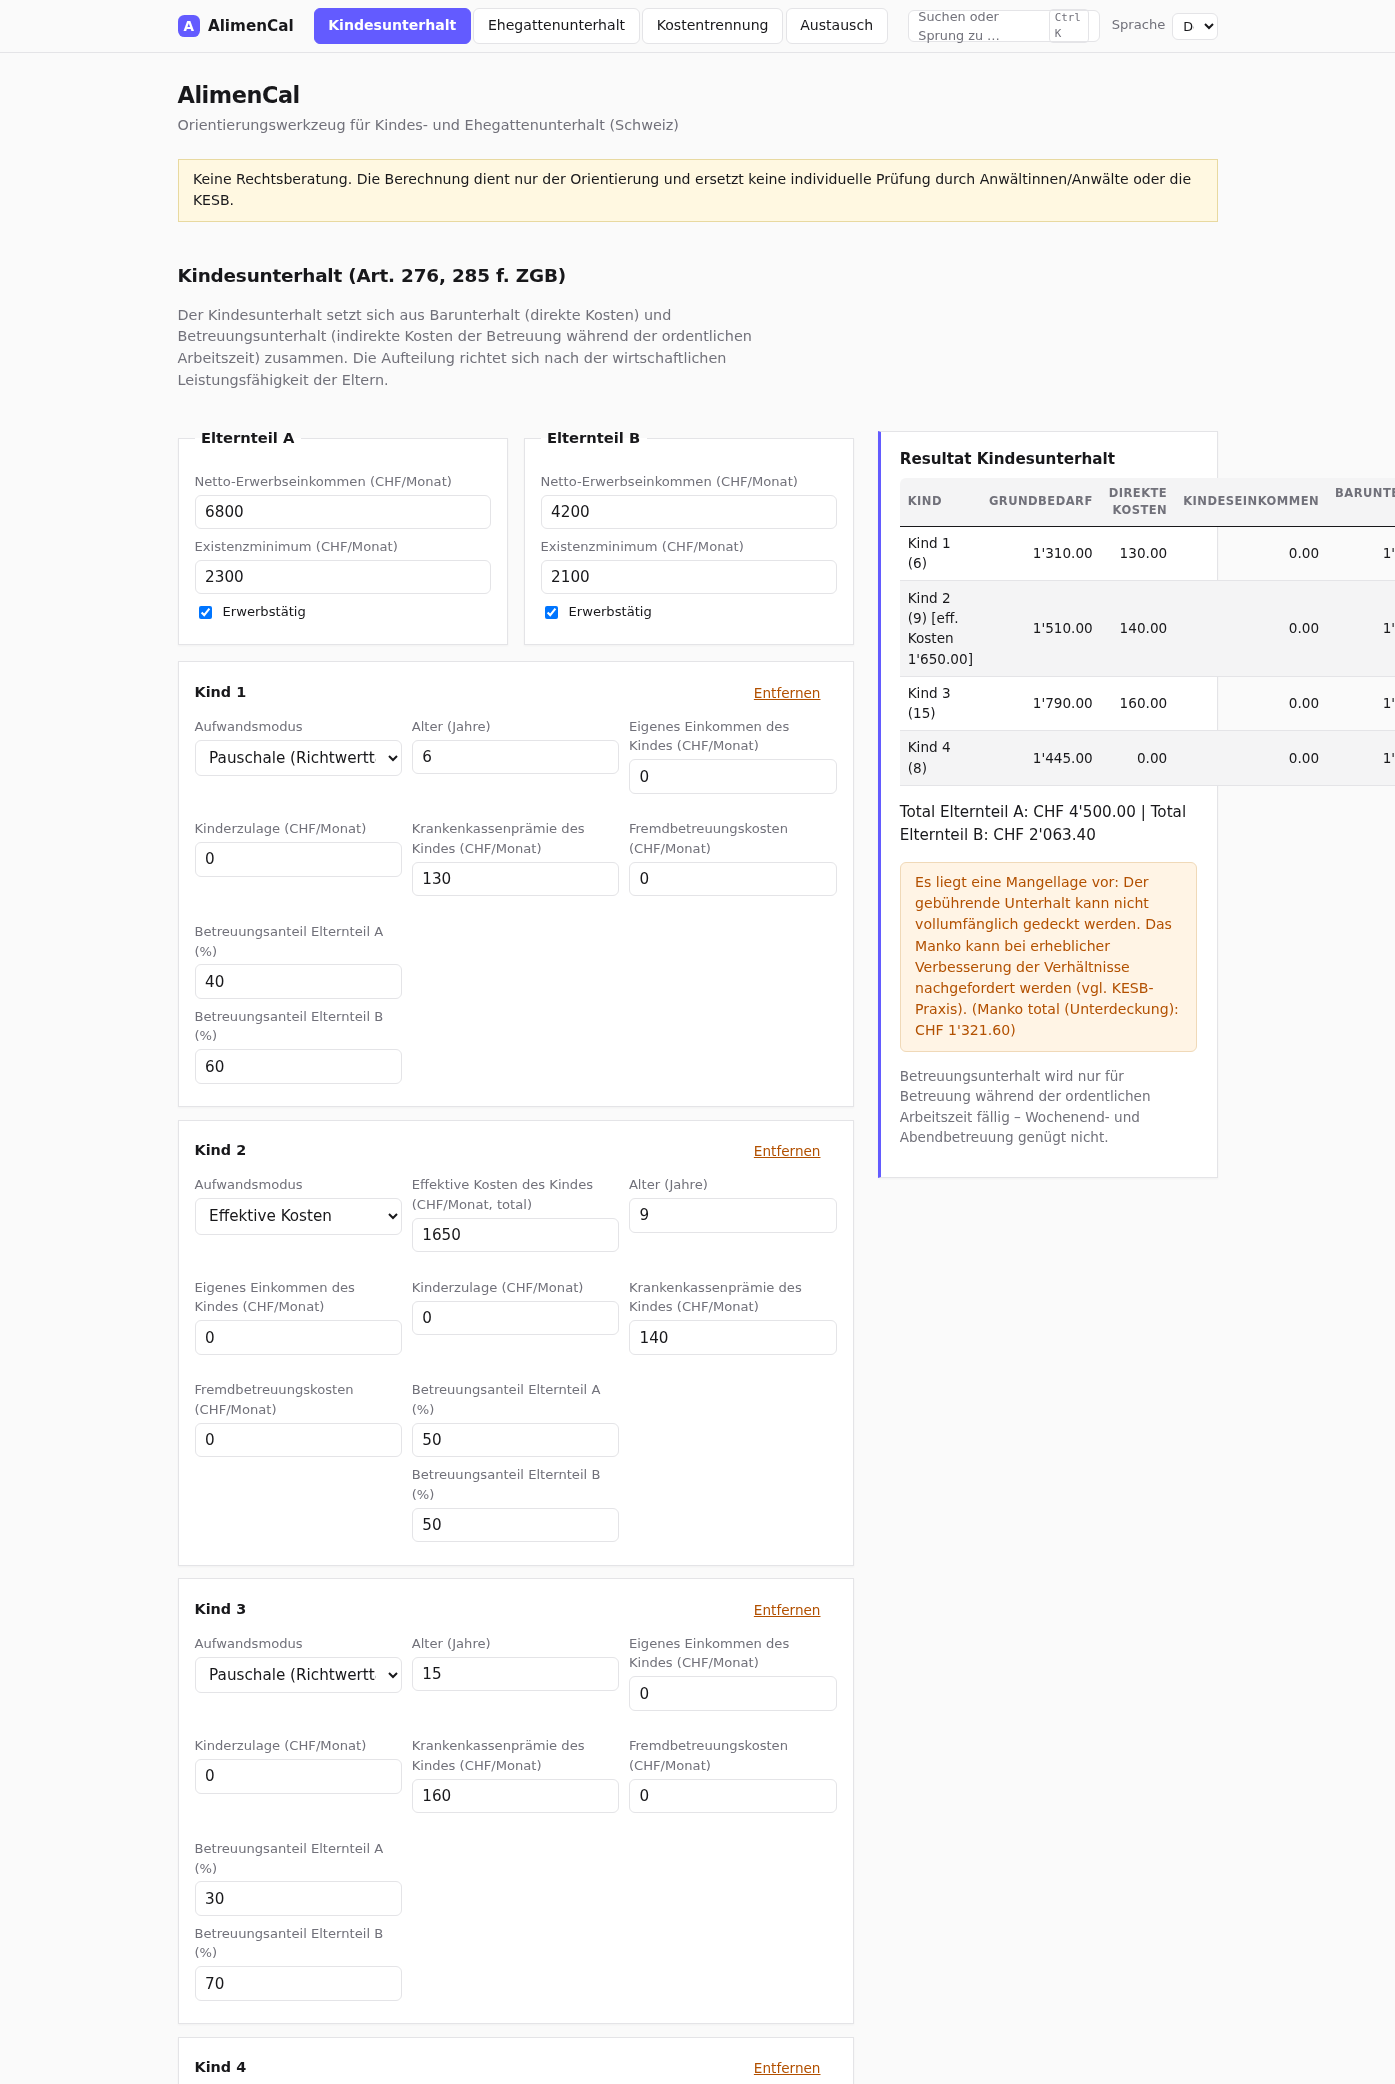
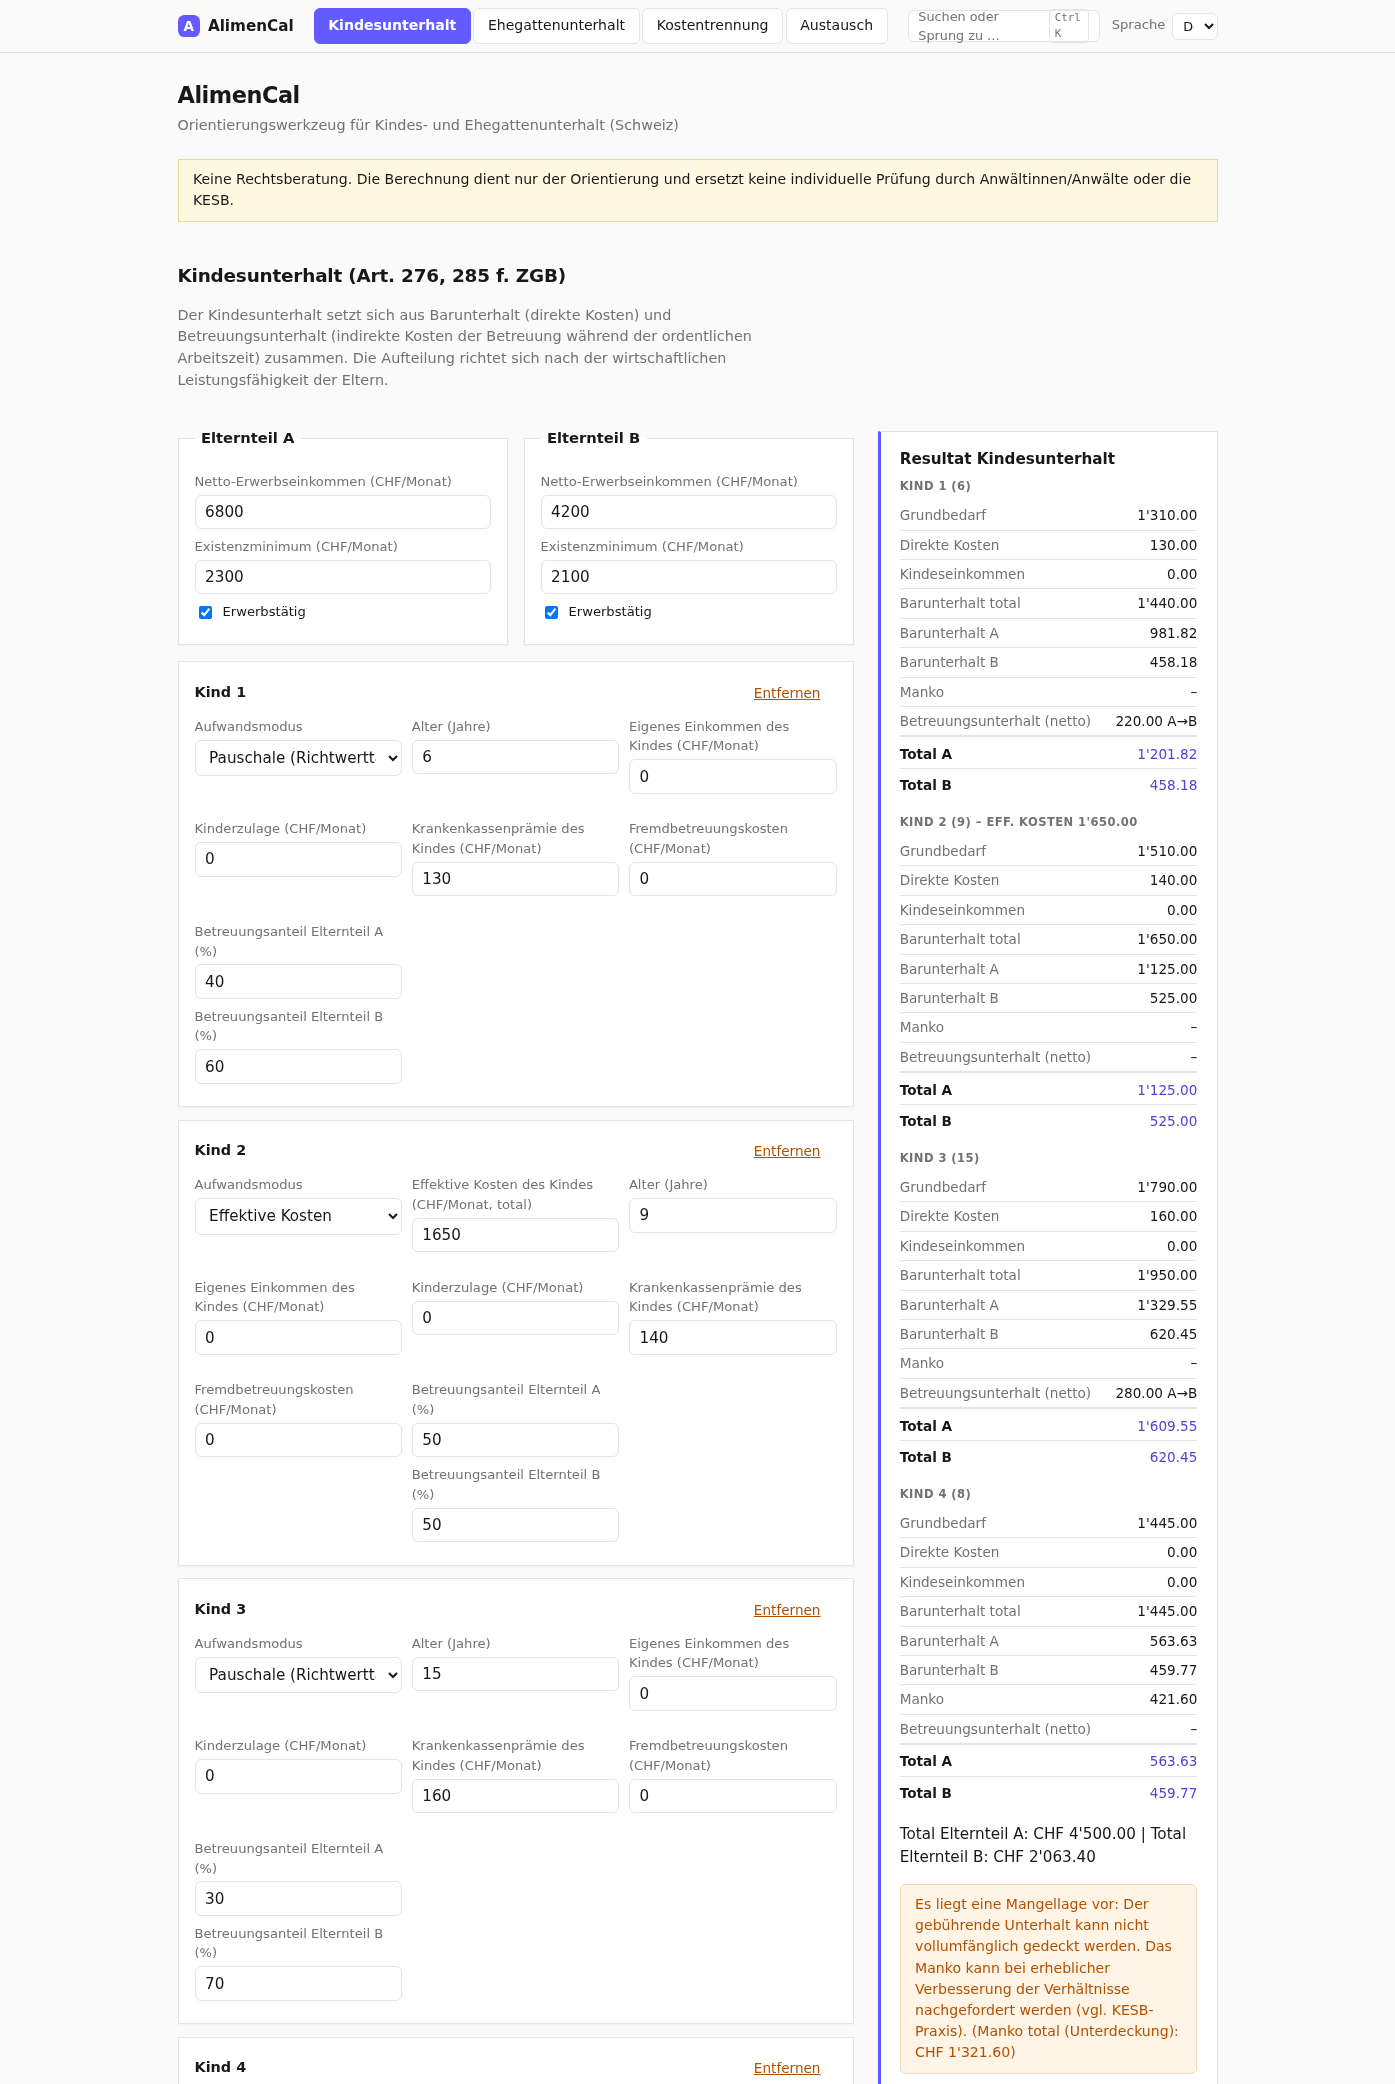
Kindesunterhalt-Resultat als panelgerechte Aufschlüsselung statt 11-Spalten-Tabelle: die breite Matrix lief horizontal aus dem 340px-Live-Panel; jetzt Key-Value-Blöcke je Kind mit Totals im Design-System-Stil; Screenshots und Doku (DESIGN, BENUTZERHANDBUCH) nachgefuehrt

diff --git a/js/app.js b/js/app.js
@@ -936,57 +936,51 @@
     var result = AlimenCal.calculator.calculateChildSupport(input, effectiveCfg());
     renderChildrenResult(result);
   }
+  function renderBreakdownRow(label, value, isTotal) {
+    var line = document.createElement('p');
+    line.className = isTotal ? 'result-breakdown-row result-breakdown-row-total' : 'result-breakdown-row';
+    var l = document.createElement('span');
+    l.className = 'result-breakdown-label';
+    l.textContent = label;
+    var v = document.createElement('span');
+    v.className = 'result-breakdown-value';
+    v.textContent = value;
+    line.appendChild(l);
+    line.appendChild(v);
+    return line;
+  }
 
   function renderChildrenResult(result) {
     var box = document.getElementById('children-result');
     box.hidden = false;
-
-    var thead = document.getElementById('children-thead');
-    thead.innerHTML = '';
-    var trh = document.createElement('tr');
-    [
-      t('children', 'tableChild'),
-      t('children', 'tableBasicNeed'),
-      t('children', 'tableDirect'),
-      t('children', 'tableChildIncome'),
-      t('children', 'tableBarTotal'),
-      t('children', 'tableBarA'),
-      t('children', 'tableBarB'),
-      t('children', 'tableManko'),
-      t('children', 'tableCareNet'),
-      t('children', 'tableTotalA'),
-      t('children', 'tableTotalB')
-    ].forEach(function (h) {
-      var th = document.createElement('th');
-      th.textContent = h;
-      trh.appendChild(th);
-    });
-    thead.appendChild(trh);
-
-    var tbody = document.getElementById('children-tbody');
-    tbody.innerHTML = '';
+    var breakdown = document.getElementById('children-breakdown');
+    breakdown.innerHTML = '';
     result.perChild.forEach(function (c) {
-      var tr = document.createElement('tr');
-      [
+      var block = document.createElement('div');
+      block.className = 'result-breakdown-block';
+      var head = document.createElement('p');
+      head.className = 'result-breakdown-head';
+      head.textContent =
         t('children', 'childLabel').replace('{n}', String(c.index + 1)) + ' (' + c.age + ')' +
-          (c.costMode === 'effective' ? ' [' + t('children', 'modeEffectiveShort') + ' ' + fmt(c.effectiveCosts) + ']' : ''),
-        fmt(c.basicNeed),
-        fmt(c.directCosts),
-        fmt(c.childIncome),
-        fmt(c.barTotal),
-        fmt(c.barFromA),
-        fmt(c.barFromB),
-        c.barManko > 0 ? fmt(c.barManko) : '–',
-        (c.careNetFromAToB > 0 ? fmt(c.careNetFromAToB) + ' A→B' : '') +
-          (c.careNetFromBToA > 0 ? fmt(c.careNetFromBToA) + ' B→A' : '') || '–',
-        fmt(c.totalFromA),
-        fmt(c.totalFromB)
-      ].forEach(function (v) {
-        var td = document.createElement('td');
-        td.textContent = v;
-        tr.appendChild(td);
+        (c.costMode === 'effective' ? ' – ' + t('children', 'modeEffectiveShort') + ' ' + fmt(c.effectiveCosts) : '');
+      block.appendChild(head);
+      [
+        [t('children', 'tableBasicNeed'), fmt(c.basicNeed)],
+        [t('children', 'tableDirect'), fmt(c.directCosts)],
+        [t('children', 'tableChildIncome'), fmt(c.childIncome)],
+        [t('children', 'tableBarTotal'), fmt(c.barTotal)],
+        [t('children', 'tableBarA'), fmt(c.barFromA)],
+        [t('children', 'tableBarB'), fmt(c.barFromB)],
+        [t('children', 'tableManko'), c.barManko > 0 ? fmt(c.barManko) : '–'],
+        [t('children', 'tableCareNet'),
+          ((c.careNetFromAToB > 0 ? fmt(c.careNetFromAToB) + ' A→B' : '') +
+            (c.careNetFromBToA > 0 ? fmt(c.careNetFromBToA) + ' B→A' : '')) || '–']
+      ].forEach(function (r) {
+        block.appendChild(renderBreakdownRow(r[0], r[1]));
       });
-      tbody.appendChild(tr);
+      block.appendChild(renderBreakdownRow(t('children', 'tableTotalA'), fmt(c.totalFromA), true));
+      block.appendChild(renderBreakdownRow(t('children', 'tableTotalB'), fmt(c.totalFromB), true));
+      breakdown.appendChild(block);
     });
 
     var totals = result.totals;

diff --git a/css/style.css b/css/style.css
@@ -239,6 +239,29 @@ button.danger { background: transparent; color: var(--warn); text-decoration: un
 .result-table th:first-child, .result-table td:first-child { text-align: left; }
 .result-table tbody tr:nth-child(even) { background: var(--btn-secondary-bg); }
 .result-table tfoot td { font-weight: 700; border-top: 2px solid var(--line); }
+/* Ergebnis-Aufschlüsselung (Key-Value je Kind) im Live-Ergebnis-Panel */
+.result-breakdown-block { margin: 0 0 0.9rem; }
+.result-breakdown-block:last-child { margin-bottom: 0; }
+.result-breakdown-head {
+  margin: 0 0 0.35rem; font-size: 0.72rem; font-weight: 600;
+  color: var(--muted); text-transform: uppercase; letter-spacing: 0.04em;
+}
+.result-breakdown-row {
+  display: flex; justify-content: space-between; gap: 0.75rem;
+  margin: 0; padding: 0.25rem 0;
+  font-size: 0.85rem;
+  border-bottom: 1px solid var(--line);
+}
+.result-breakdown-row:last-child { border-bottom: 0; }
+.result-breakdown-label { color: var(--muted); }
+.result-breakdown-value { font-weight: 500; white-space: nowrap; }
+.result-breakdown-row-total {
+  font-weight: 700; padding-top: 0.4rem;
+  border-top: 1px solid var(--line);
+  border-bottom: 0;
+}
+.result-breakdown-row-total .result-breakdown-label { color: var(--ink); }
+.result-breakdown-row-total .result-breakdown-value { color: var(--accent-dark); }
 
 .big { font-size: 1.3rem; font-weight: 700; color: var(--accent-dark); }
 .totals { font-size: 0.95rem; }

diff --git a/index.html b/index.html
@@ -89,10 +89,7 @@
       <aside class="result-col">
       <div id="children-result" class="result result-panel" hidden>
         <h3 id="children-result-heading"></h3>
-        <table class="result-table">
-          <thead id="children-thead"></thead>
-          <tbody id="children-tbody"></tbody>
-        </table>
+        <div class="result-breakdown" id="children-breakdown"></div>
         <p id="children-totals" class="totals"></p>
         <p id="children-manko" class="manko warn" hidden></p>
         <p class="hint" id="children-care-hint"></p>

diff --git a/docs/DESIGN.md b/docs/DESIGN.md
@@ -23,13 +23,17 @@ Farb-Feinjustierung im Theme-Editor funktioniert in jedem Stil weiter.
 - **Werkzeug-Ästhetik**: 32px-Inputs, tabellarische Ziffern,
   Fokus-Ringe, feine Linien – Hierarchie durch Dichte und Typografie
   statt durch Dekor
-- **Resultat-Tabellen im System-Stil**: Die Ergebnis-Tabellen
-  (Kindesunterhalt, Kostentrennung) folgen derselben Werkzeug-Ästhetik
-  wie die Karten – kompakte Caps-Kopfzeile in Sekundärfarbe mit feiner
-  Kante, Zebrastreifen über `--btn-secondary-bg`, rechtbündige
-  tabellarische Ziffern – mit passenden Overrides je Design-Stil
-  (Calm Dark: Kante über `--muted`; Neo-Brutalismus: 2px-Kante, kein
-  Radius)
+- **Resultat-Aufschlüsselung statt Breitband-Tabelle**: Das Kindesunterhalt-
+  Resultat zeigt pro Kind eine kompakte Key-Value-Aufschlüsselung
+  (`.result-breakdown`): Caps-Kopfzeile je Kind, feine Zeilen mit
+  Label links / tabellarischem Wert rechts, Totals mit Kante und
+  Akzentfarbe – die 11-spaltige Matrix sass nie im 340px-Panel und
+  lief horizontal aus dem Layout. Die Kostentrennungs-Tabelle (5
+  Spalten) bleibt als `.result-table` im System-Stil: kompakte Caps-
+  Kopfzeile in Sekundärfarbe mit feiner Kante, Zebrastreifen über
+  `--btn-secondary-bg`, rechtbündige tabellarische Ziffern – mit
+  passenden Overrides je Design-Stil (Calm Dark: Kante über
+  `--muted`; Neo-Brutalismus: 2px-Kante, kein Radius)
 - **Dunkelmodus als eigener Stil** (Calm Dark) statt verstecktem
   prefers-color-Schema-Fallback, da Nutzer aktiv hell/dunkel wählen
 

diff --git a/docs/BENUTZERHANDBUCH.md b/docs/BENUTZERHANDBUCH.md
@@ -96,11 +96,12 @@ unteren Rand; «Mehr» öffnet die Befehlspalette.
    Krankenkassenprämie und Fremdbetreuungskosten werden daraus abgezogen
    (separate Erfassung als direkte Kosten), um Doppelerfassungen zu vermeiden.
    Die Wahl gilt pro Kind und ist im Resultat ausgewiesen.
-4. **Resultat**: Grundbedarf (altersgestaffelt oder effektive Kosten),
-   Barunterhalt je Partei (aufgeteilt nach wirtschaftlicher
-   Leistungsfähigkeit) und Betreuungsunterhalt (netto verrechnet zwischen
-   den Parteien). Bei Unterdeckung wird eine Mangellage mit Mankobetrag
-   ausgewiesen.
+4. **Resultat**: Pro Kind eine kompakte Aufschlüsselung mit Grundbedarf
+   (altersgestaffelt oder effektive Kosten), Barunterhalt je Partei
+   (aufgeteilt nach wirtschaftlicher Leistungsfähigkeit) und
+   Betreuungsunterhalt (netto verrechnet zwischen den Parteien); je
+   Kind sind die Totals je Partei ausgewiesen. Bei Unterdeckung wird
+   eine Mangellage mit Mankobetrag ausgewiesen.
 
 Hinweise:
 
